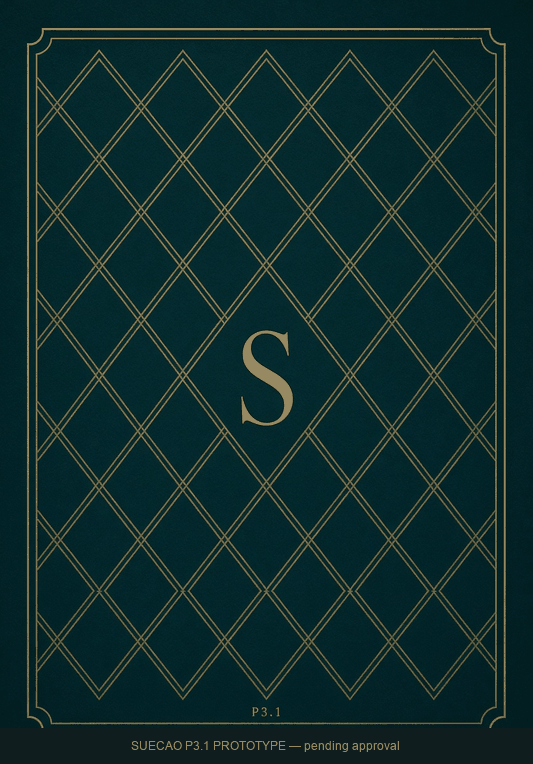
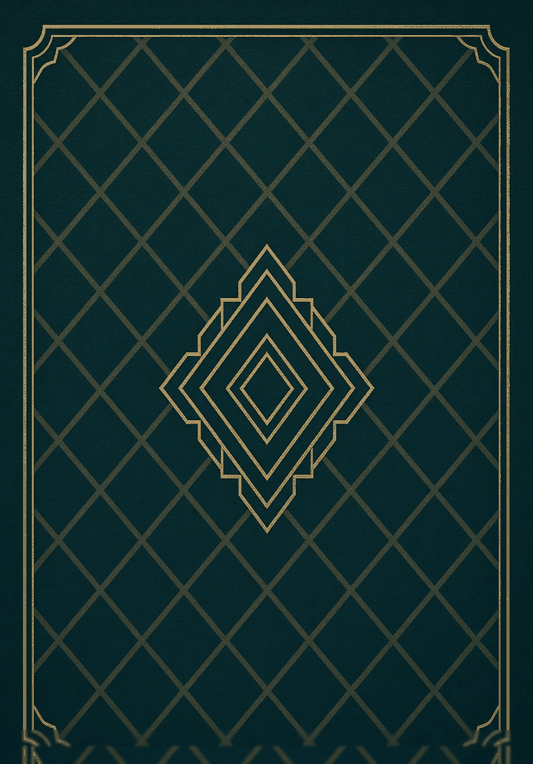
feat(assets): finalize suecao card back v1
Replace the prototype marking with an approvable Premium Classic back that stays readable at small sizes.

diff --git a/docs/ASSETS.md b/docs/ASSETS.md
@@ -8,7 +8,7 @@
 | Pack | Path | Estado |
 |------|------|--------|
 | Cartas (activo) | `frontend/public/assets/cards2/*.png` | **Hazmat Hand Drawn** faces (trial) |
-| Costa (UX-P3.1) | `frontend/public/assets/cards2/card_back.png` | **Suecão P3.1 PROTOTYPE** — pending visual approval |
+| Costa (UX-P3.1) | `frontend/public/assets/cards2/card_back.png` | **Suecão card back v1** (Premium Classic) |
 | Import Hazmat | `frontend/public/assets/cards-pack-import/hazmat/` | Flat staging; `node tools/stage-hazmat.mjs` |
 | UI StartMenu | `frontend/src/assets/ui/dobo/` | **DOBO** subset (bundled) |
 | UX chrome | `frontend/src/styles/design-tokens.css` + packs futuros | Tokens base |
